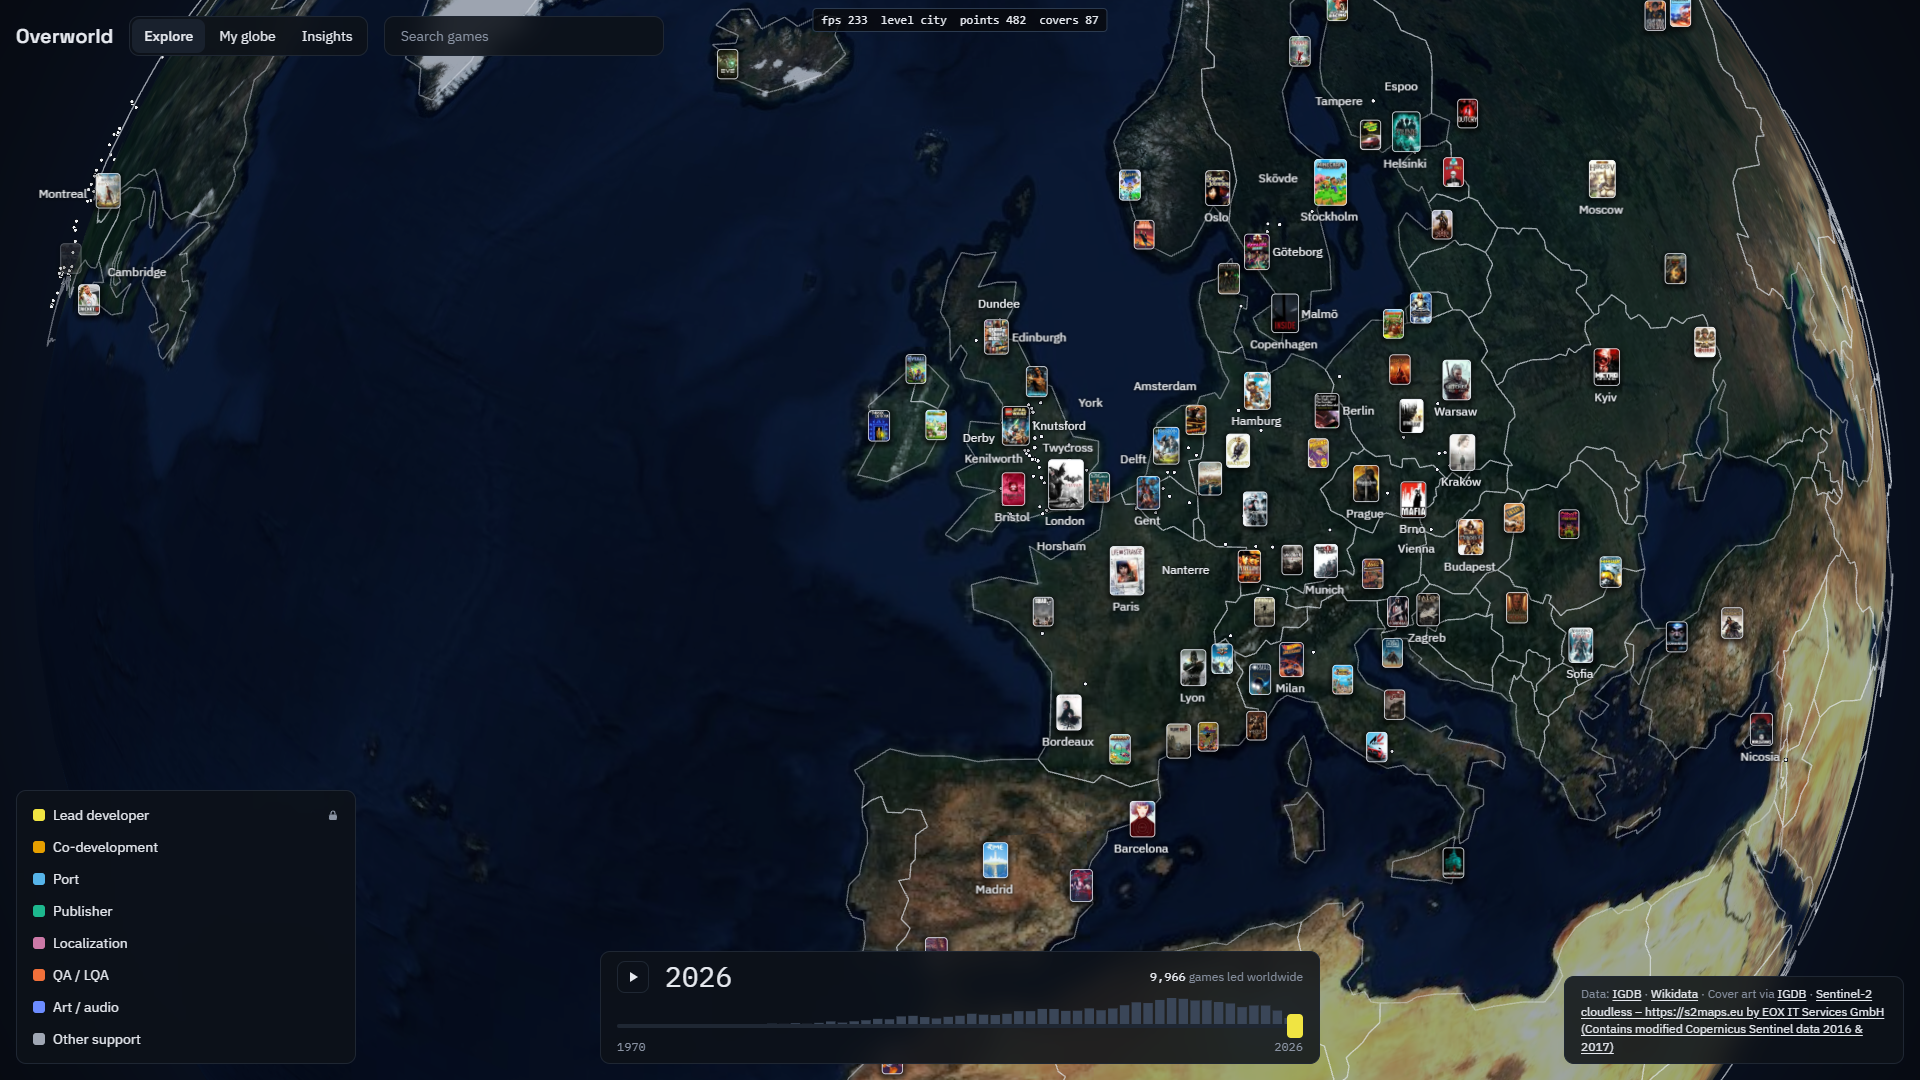
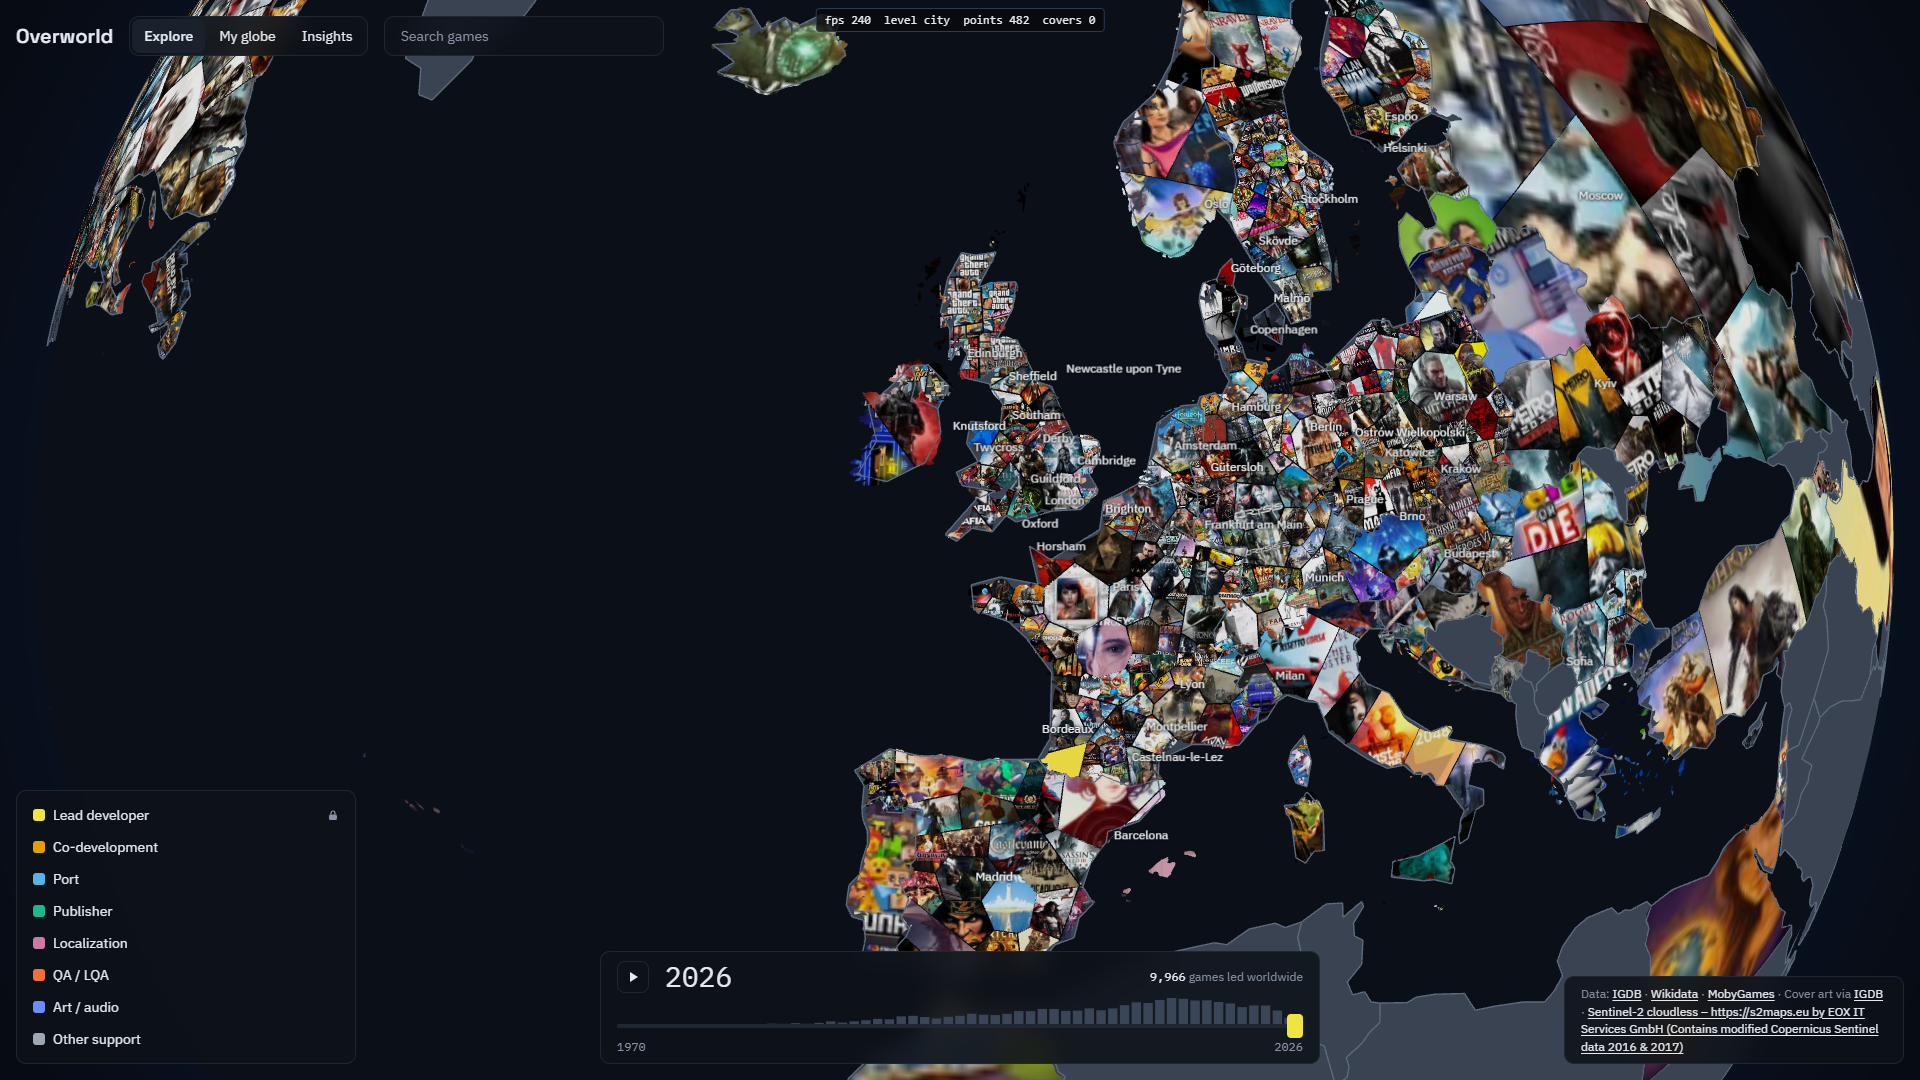
Upload atlas covers without GPU readbacks and measure the mosaic

diff --git a/web/src/globe/coverAtlas.ts b/web/src/globe/coverAtlas.ts
@@ -23,7 +23,6 @@ export class CoverAtlas {
   private wanted: string[] = [];
   private pinned = new Set<string>();
   private readonly abort = new AbortController();
-  private readonly target = new THREE.Vector2();
   private disposed = false;
   private loadedTotal = 0;
 
@@ -33,12 +32,13 @@ export class CoverAtlas {
     private readonly layout: AtlasLayout = ATLAS,
     private readonly url: (id: string) => string = (id) => coverUrl(id),
     private readonly maxInFlight = MAX_IN_FLIGHT,
+    private readonly mipmaps = true,
   ) {
     this.slots = new SlotCache<string>(slotCount(layout));
     const t = new THREE.DataTexture(null, layout.size, layout.size, THREE.RGBAFormat, THREE.UnsignedByteType);
     t.source.dataReady = false;
-    t.generateMipmaps = true;
-    t.minFilter = THREE.LinearMipmapLinearFilter;
+    t.generateMipmaps = this.mipmaps;
+    t.minFilter = this.mipmaps ? THREE.LinearMipmapLinearFilter : THREE.LinearFilter;
     t.magFilter = THREE.LinearFilter;
     t.flipY = false;
     t.colorSpace = THREE.NoColorSpace;
@@ -113,15 +113,33 @@ export class CoverAtlas {
       }
       if (got.evicted !== null) this.readyAt.delete(got.evicted);
       const o = slotOrigin(got.slot, this.layout);
-      const src = new THREE.Texture(bitmap as unknown as HTMLImageElement);
-      this.target.set(o.x, o.y);
-      this.renderer.copyTextureToTexture(src, this.texture, null, this.target);
+      this.upload(bitmap, o.x, o.y);
       bitmap.close();
       this.readyAt.set(key, this.clock());
       this.loadedTotal++;
       changed = true;
     }
+    if (changed && this.mipmaps) this.renderer.getContext().generateMipmap(this.renderer.getContext().TEXTURE_2D);
     return changed;
+  }
+
+  // Straight texSubImage2D: three's copyTextureToTexture reads pixel-store state back from the GPU on every copy,
+  // which stalls the main thread while the GPU is busy.
+  private upload(bitmap: ImageBitmap, x: number, y: number): void {
+    const gl = this.renderer.getContext() as WebGL2RenderingContext;
+    const state = this.renderer.state;
+    let props = this.renderer.properties.get(this.texture) as { __webglTexture?: WebGLTexture };
+    if (!props.__webglTexture) {
+      this.renderer.initTexture(this.texture);
+      props = this.renderer.properties.get(this.texture) as { __webglTexture?: WebGLTexture };
+    }
+    state.activeTexture(gl.TEXTURE0);
+    state.bindTexture(gl.TEXTURE_2D, props.__webglTexture!);
+    state.pixelStorei(gl.UNPACK_FLIP_Y_WEBGL, false);
+    state.pixelStorei(gl.UNPACK_PREMULTIPLY_ALPHA_WEBGL, false);
+    state.pixelStorei(gl.UNPACK_ALIGNMENT, 4);
+    state.pixelStorei(gl.UNPACK_COLORSPACE_CONVERSION_WEBGL, gl.NONE);
+    gl.texSubImage2D(gl.TEXTURE_2D, 0, x, y, gl.RGBA, gl.UNSIGNED_BYTE, bitmap);
   }
 
   dispose(): void {

diff --git a/web/src/globe/mosaicLayer.ts b/web/src/globe/mosaicLayer.ts
@@ -10,7 +10,7 @@ const HIGH: AtlasLayout = { size: 2048, slotW: 136, slotH: 192, imageW: 132, ima
 const HIGH_CAPACITY = 150;
 const HIGH_MIN_PX = 70;
 const TABLE_W = 2048;
-const BASE_COLOR = new THREE.Color('#2b3442');
+const BASE_COLOR = new THREE.Color('#4a5466');
 
 const VERTEX = `
 attribute float aCell;
@@ -61,6 +61,8 @@ export interface MosaicStats {
   cells: number;
   triangles: number;
   buildMs: number;
+  applyMs: number;
+  frameMs: number;
   lowLoaded: number;
   highLoaded: number;
 }
@@ -81,6 +83,8 @@ export class MosaicLayer {
   private pending: Extract<MosaicRequest, { type: 'build' }> | null = null;
   private readonly picks = new Map<number, (id: number | null) => void>();
   private buildMs = 0;
+  private applyMs = 0;
+  private frameMs = 0;
   private needHigh = true;
   private onChange: () => void = () => {};
 
@@ -89,8 +93,8 @@ export class MosaicLayer {
     renderer: THREE.WebGLRenderer,
     clock: () => number,
   ) {
-    this.low = new CoverAtlas(renderer, clock, LOW, (id) => coverUrl(id), 8);
-    this.high = new CoverAtlas(renderer, clock, HIGH, (id) => coverUrl(id, 'cover_big'), 4);
+    this.low = new CoverAtlas(renderer, clock, LOW, (id) => coverUrl(id), 8, false);
+    this.high = new CoverAtlas(renderer, clock, HIGH, (id) => coverUrl(id, 'cover_big'), 4, false);
     this.table = this.makeTable(1);
     this.material = new THREE.ShaderMaterial({
       vertexShader: VERTEX,
@@ -169,6 +173,8 @@ export class MosaicLayer {
       cells: this.cells.length,
       triangles: pos ? pos.count / 3 : 0,
       buildMs: this.buildMs,
+      applyMs: this.applyMs,
+      frameMs: this.frameMs,
       lowLoaded: this.low.loadedCount(),
       highLoaded: this.high.loadedCount(),
     };
@@ -179,6 +185,15 @@ export class MosaicLayer {
   }
 
   frame(camera: THREE.PerspectiveCamera, heightPx: number): boolean {
+    const t0 = performance.now();
+    try {
+      return this.frameInner(camera, heightPx);
+    } finally {
+      this.frameMs = Math.max(this.frameMs, performance.now() - t0);
+    }
+  }
+
+  private frameInner(camera: THREE.PerspectiveCamera, heightPx: number): boolean {
     if (this.needHigh && this.cells.length > 0) {
       this.needHigh = false;
       this.high.want(this.pickHigh(camera, heightPx));
@@ -220,7 +235,9 @@ export class MosaicLayer {
       this.post(next);
     }
     this.buildMs = msg.ms;
+    const t0 = performance.now();
     this.apply(msg.mesh);
+    this.applyMs = Math.max(this.applyMs, performance.now() - t0);
   }
 
   private apply(m: MosaicMesh): void {

diff --git a/reports/performance-real.md b/reports/performance-real.md
@@ -1,26 +1,26 @@
 # Globe performance, real data
 
-- Date: 2026-11-16T16:35:17.445Z
+- Date: 2026-11-16T19:22:56.659Z
 - GPU renderer: `ANGLE (NVIDIA, NVIDIA GeForce RTX 2060 SUPER (0x00001F06) Direct3D11 vs_5_0 ps_5_0, D3D11)` (vendor `Google Inc. (NVIDIA)`)
 - Browser: Chrome/157.0.8103.51, headful, viewport 1920x1080 at devicePixelRatio 1
-- Server: vite dev server (unminified React development build), data set `real`: 9966 games, 6241 companies, years 1970 to 2026, generatedAt 2026-11-16T08:19:52.087Z
+- Server: vite dev server (unminified React development build), data set `real`: 9966 games, 6385 companies, years 1970 to 2026, generatedAt 2026-11-16T18:25:27.009Z
 - Pass criterion per scenario: average >= 58 fps and p95 frame time <= 20 ms, and the camera reached the intended zoom level
 - Overall: **PASS**
 
 Frame times come from a requestAnimationFrame loop inside the page. 1% low is 1000 divided by the mean of the slowest 1% of frames. Year-play scenarios cover the whole sweep, not 5 seconds.
 
-- Satellite imagery: on (Sentinel-2 cloudless 2016 tiles; Points counts places drawn as a cover or a dot, Covers counts covers placed)
+- Satellite imagery: off (Sentinel-2 cloudless 2016 tiles; Points counts places drawn as a cover or a dot, Covers counts covers placed)
 
 | Scenario | Level | Points | Covers | Avg fps | 1% low fps | Median ms | p95 ms | Max ms | Frames | >20 ms | App fps | Result |
 |---|---|---|---|---|---|---|---|---|---|---|---|---|
-| a-idle-country | country | 74 | 23 | 238.2 | 135.1 | 4.2 | 4.3 | 12.5 | 1190 | 0% | 238 | PASS |
-| b-orbit-country | country | 74 | 19 | 235.8 | 109.9 | 4.2 | 4.4 | 12.7 | 1179 | 0% | 238 | PASS |
-| c-orbit-city-europe | city | 482 | 90 | 236.8 | 119.2 | 4.2 | 4.4 | 8.7 | 1183 | 0% | 231 | PASS |
-| d-orbit-company-dense-city | company | 4880 | 27 | 237.6 | 115.6 | 4.2 | 4.3 | 33.2 | 1187 | 0.1% | 240 | PASS |
-| e1-year-play-country | country | 74 | 21 | 239.1 | 170.5 | 4.2 | 4.3 | 16.6 | 4688 | 0% | 234 | PASS |
-| e2-year-play-company | company | 4880 | 27 | 239.9 | 218.6 | 4.2 | 4.3 | 8.3 | 4703 | 0% | 240 | PASS |
-| f-game-arcs | country | 74 | 14 | 239.8 | 210.5 | 4.2 | 4.3 | 8.4 | 1198 | 0% | 240 | PASS |
-| g-game-filter-toggle | country | 74 | 14 | 236.3 | 96.8 | 4.2 | 4.3 | 20.8 | 1417 | 0.1% | 236 | PASS |
+| a-idle-country | country | 74 | 0 | 239.6 | 195.1 | 4.2 | 4.3 | 8.9 | 1197 | 0% | 239 | PASS |
+| b-orbit-country | country | 74 | 0 | 239 | 162.6 | 4.2 | 4.3 | 8.4 | 1194 | 0% | 240 | PASS |
+| c-orbit-city-europe | city | 482 | 0 | 239.2 | 172.7 | 4.2 | 4.3 | 8.4 | 1196 | 0% | 239 | PASS |
+| d-orbit-company-dense-city | company | 4880 | 0 | 236 | 96.4 | 4.2 | 4.4 | 16.6 | 1179 | 0% | 240 | PASS |
+| e1-year-play-country | country | 74 | 0 | 206.1 | 14.7 | 4.2 | 4.4 | 1999.8 | 4040 | 0.3% | 189 | PASS |
+| e2-year-play-company | company | 4880 | 0 | 224.3 | 45.4 | 4.2 | 4.4 | 104.2 | 4395 | 0.3% | 229 | PASS |
+| f-game-arcs | country | 74 | 0 | 101.7 | 2.7 | 4.2 | 16.8 | 1229 | 508 | 4.9% | 240 | PASS |
+| g-game-filter-toggle | country | 74 | 0 | 77.7 | 1.6 | 4.2 | 16.6 | 1249.9 | 466 | 3.9% | 16 | PASS |
 
 - a-idle-country: Idle at country level (default view, default slow auto-rotate). Screenshot docs/screenshots/real-a-idle-country.png
 - b-orbit-country: Orbiting continuously at country level. Screenshot docs/screenshots/real-b-orbit-country.png
@@ -28,19 +28,19 @@ Frame times come from a requestAnimationFrame loop inside the page. 1% low is 10
 - d-orbit-company-dense-city: Company level over Tokyo (302 companies), slow orbit. Screenshot docs/screenshots/real-d-orbit-company-dense-city.png
 - e1-year-play-country: Year slider playing 1970 to 2026 at 350 ms/year, country level. Screenshot docs/screenshots/real-e1-year-play-country.png
 - e2-year-play-company: Year slider playing 1970 to 2026 at 350 ms/year, company level over Tokyo. Screenshot docs/screenshots/real-e2-year-play-company.png
-- f-game-arcs: Game selected: Assassin's Creed Shadows (16 roles, 4 role types), arcs animating. Screenshot docs/screenshots/real-f-game-arcs.png
-- g-game-filter-toggle: Same game, toggling "Other support" and "Port" on/off once per second. Screenshot docs/screenshots/real-g-game-filter-toggle.png
-  - 5 filter toggles; 1 frames over 20 ms, 1 of them within 250 ms after a toggle; worst frame 21 ms; slow frames (ms): 21
+- f-game-arcs: Game selected: Assassin's Creed Valhalla (19 roles, 4 role types), arcs animating. Screenshot docs/screenshots/real-f-game-arcs.png
+- g-game-filter-toggle: Same game, toggling "Other support" and "Publisher" on/off once per second. Screenshot docs/screenshots/real-g-game-filter-toggle.png
+  - 5 filter toggles; 17 frames over 20 ms, 2 of them within 250 ms after a toggle; worst frame 1250 ms; slow frames (ms): 25, 25, 75, 38, 21, 1250, 25, 33, 25, 688, 33, 42, 21, 1004, 208, 58, 29
 
 ## Functional checks
 
-- PASS **arcs**: expected 15 (from detail data, 9 roles enabled); scene arc objects 15; globe arcsData prop 15
-- PASS **role filter**: "Other support" aria-pressed true -> false -> true; scene arcs 15 -> 2 (expected 2) -> 15; screenshots differ: true
+- PASS **arcs**: expected 16 (from detail data, 9 roles enabled); scene arc objects 16; globe arcsData prop 16
+- PASS **role filter**: "Other support" aria-pressed true -> false -> true; scene arcs 16 -> 1 (expected 1) -> 16; screenshots differ: true
 - PASS **search**: typed "Knights of the Round", 1 results, first "Knights of the Round" (is target: true); Enter -> card heading "Knights of the Round", selectedGameId 6816
-- PASS **cover images (country level)**: level country; 21 covers placed, 21 of them showing their loaded image after 0.2 s (need >= 20); 290 images uploaded to the atlas so far
+- PASS **mosaic covers (country level)**: level country; 1197 mosaic cells, 133814 triangles, built in 1838 ms; 7701 covers loaded after 0.2 s (need >= 200), 565 large
 - PASS **year slider**: keyboard on slider; readout "1985" (range 1985); places drawn (covers + dots) 5 at 1985 vs 74 at 2026; "208 games led worldwide"
-- PASS **year changes covers**: same view, 2026 -> 1985: 21 -> 1 covers; 1 places have a cover in both years, 1 of them now show a different game (need >= 1)
-- PASS **place click**: clicked US point at (960,540), hover tooltip "Portal 2 / United States / 2586 games led by 2026"; panel "Place: United States", selectedPlace {"level":"country","key":"US"}; level country -> city
+- PASS **year rebuilds the mosaic**: 2026 -> 1985: 1197 -> 1194 mosaic cells (need fewer, more than 0)
+- PASS **mosaic click**: hovered US centre at (960,540) at level country, tooltip "Doki Doki Literature Club! (2017) / Team Salvato, US"; click selected game 55935, card "Doki Doki Literature Club!"
 - PASS **no console errors / failed requests**: 0 console errors, 0 page errors, 0 failed/4xx-5xx requests, 0 IGDB cover failures; 0 map tile failures (listed, not counted: third-party tile server, the globe falls back to the vector look); IGDB cover failures counted on real data
 
 ## Console and network
